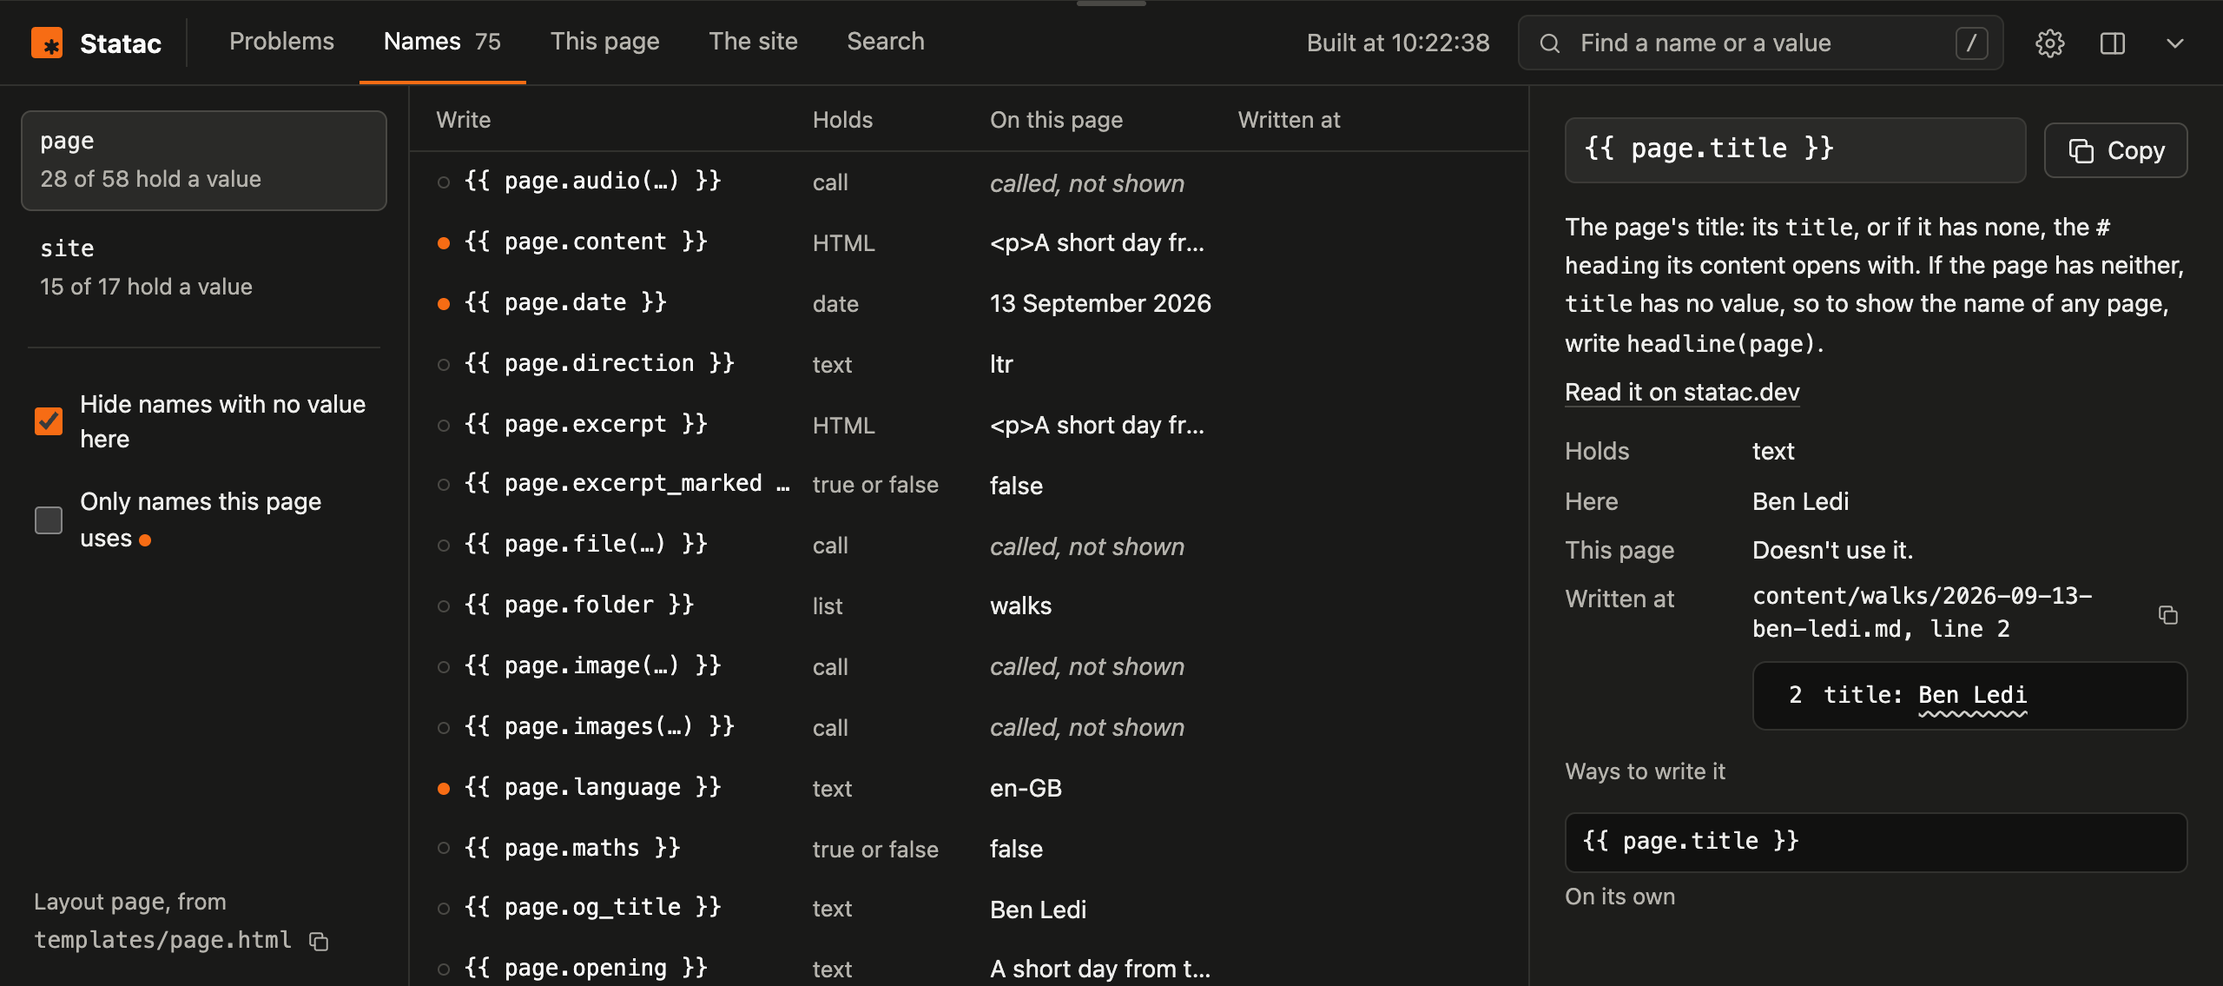
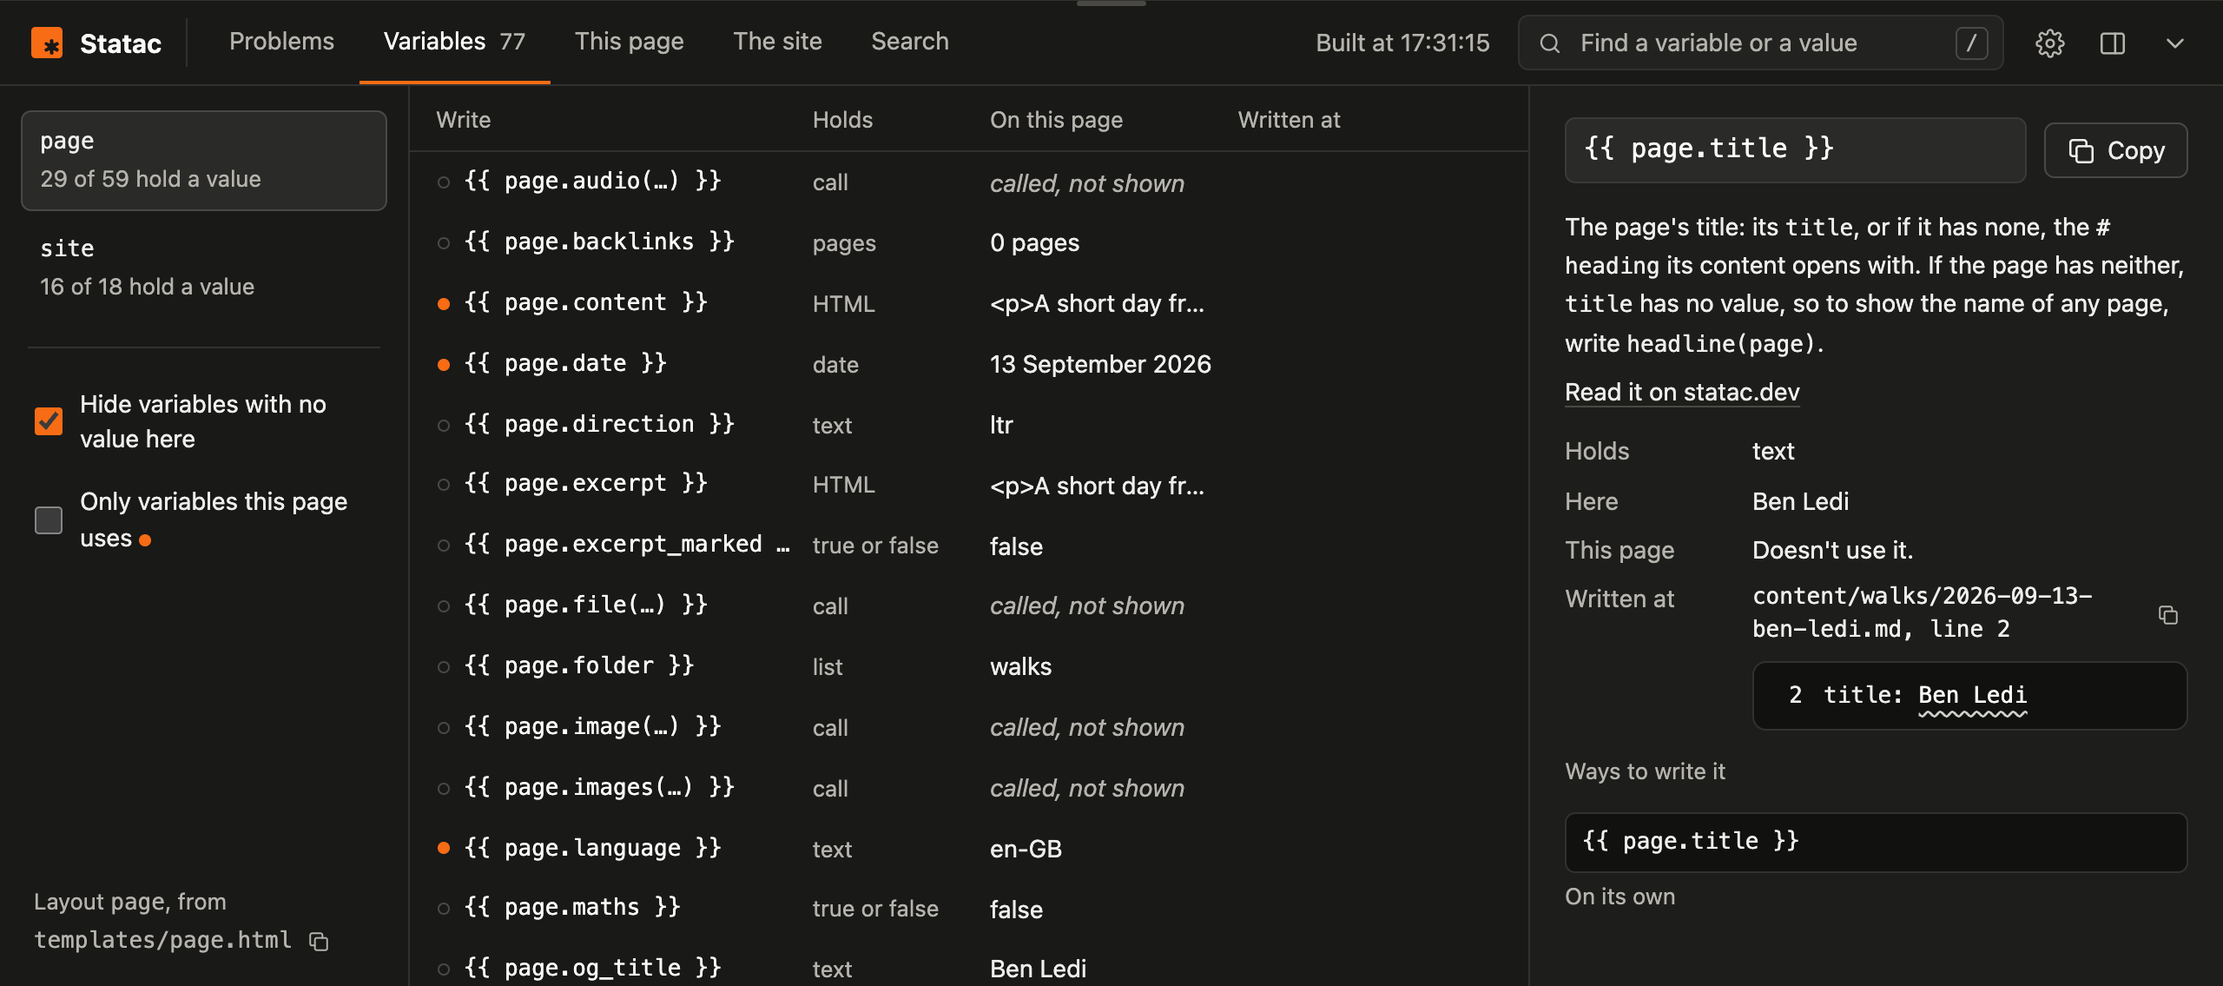
fix: use the searched-for words in messages, the debug panel and the generated pages

diff --git a/src/wording.rs b/src/wording.rs
@@ -1578,7 +1578,7 @@ fn format_suggestion(fault: &FormatFault) -> Option<String> {
                 let names: Vec<String> = (Look::ALL.iter())
                     .map(|look| look.name().to_owned())
                     .collect();
-                format!(", or name a look: {}", quoted_either(&names))
+                format!(", or use a named format: {}", quoted_either(&names))
             }
             false => String::new(),
         };
@@ -1663,9 +1663,9 @@ fn takes_fault(fault: &TakesFault) -> String {
     match fault {
         TakesFault::Unclosed => "the `takes` line has no `#}`".into(),
         TakesFault::NamesNothing => "the `takes` line names nothing".into(),
-        TakesFault::Missing => "a name is missing from the `takes` line".into(),
-        TakesFault::NotAlone(name) => format!("`{name}` must be the only name on its line"),
-        TakesFault::NotAName(piece) => format!("`{piece}` isn't a name a snippet can read"),
+        TakesFault::Missing => "a variable is missing from the `takes` line".into(),
+        TakesFault::NotAlone(name) => format!("`{name}` must be the only variable on its line"),
+        TakesFault::NotAName(piece) => format!("`{piece}` isn't a variable a snippet can read"),
         TakesFault::Twice(name) => format!("`{name}` is named twice"),
         TakesFault::TooMany => "the `takes` line names more than 2".into(),
         TakesFault::NeverRead(name) => format!("the snippet never reads `{name}`"),
@@ -2103,6 +2103,7 @@ fn word_name(word: Word) -> &'static str {
         Word::AddressPiece => "placeholder",
         Word::File => "file",
         Word::TimeZone => "time zone",
+        Word::Variable => "variable",
         Word::Name => "name",
         Word::Filter => "filter",
         Word::Test => "test",
@@ -4509,7 +4510,7 @@ pub(crate) fn hover_holds(written: &str, holds: Holds) -> Option<String> {
 
 /// What an editor's hover says a name is where what it holds isn't known.
 pub(crate) fn hover_name(written: &str) -> String {
-    format!("`{written}`, a name")
+    format!("`{written}`, a variable")
 }
 
 /// What an editor's hover says a function is, as `css` or `page.image`.
@@ -5147,7 +5148,7 @@ pub(crate) fn panel_list(word: Word, name: &str) -> String {
 pub(crate) const PANEL_READ_PAGES: &str = "Which pages there are";
 pub(crate) const PANEL_READ_LISTS: &str = "Which lists there are";
 pub(crate) const PANEL_READ_ORDER: &str = "The order of the pages in their lists";
-pub(crate) const PANEL_READ_TRANSLATIONS: &str = "Which pages are translations of which";
+pub(crate) const PANEL_READ_TRANSLATIONS: &str = "Which translated pages each page has";
 pub(crate) const PANEL_READ_BACKLINKS: &str = "Which pages link to which";
 pub(crate) const PANEL_READ_FILES: &str = "Which images and other files the site has";
 pub(crate) const PANEL_READ_MENTIONS: &str = "The webmentions in `fetched/mentions/`";
@@ -5278,7 +5279,7 @@ pub(crate) fn panel_words() -> Vec<(&'static str, PanelWord)> {
         ("copyPlaceLabel", said("Copy {place}")),
         ("holdsHere", said("On this page it holds {value}.")),
         ("holdsNothing", said("On this page it holds no value.")),
-        ("showInNames", said("Show in Names")),
+        ("showInNames", said("Show in Variables")),
         ("explain", said("What it means, and how to fix it")),
         ("allProblems", said("All problems")),
         ("builtThis", said("While building this page")),
@@ -5292,7 +5293,7 @@ pub(crate) fn panel_words() -> Vec<(&'static str, PanelWord)> {
         ("quietened", said("Quietened in `statac.yaml`")),
         // The drawer, and its tabs.
         ("problems", said("Problems")),
-        ("names", said("Names")),
+        ("names", said("Variables")),
         ("page", said(PANEL_PAGE)),
         ("site", said(PANEL_SITE)),
         ("parts", said("What the debug panel shows")),
@@ -5301,8 +5302,8 @@ pub(crate) fn panel_words() -> Vec<(&'static str, PanelWord)> {
             said("Stopped at {time}; the page is from the build at {built}"),
         ),
         ("statusStoppedFirst", said("Stopped at {time}")),
-        ("find", said("Find a name")),
-        ("findHow", said("Find a name or a value")),
+        ("find", said("Find a variable")),
+        ("findHow", said("Find a variable or a value")),
         ("settings", said("Settings")),
         ("dockSide", said("Dock to the side")),
         ("dockBottom", said("Dock to the bottom")),
@@ -5330,11 +5331,11 @@ pub(crate) fn panel_words() -> Vec<(&'static str, PanelWord)> {
         ("fromExplain", said("From `statac explain {kind}`")),
         ("howToFix", said("How to fix it")),
         ("readOnline", said("Read it on statac.dev")),
-        // Names.
+        // Variables.
         ("held", said("{held} of {count} hold a value")),
         ("found", said("{n} found")),
-        ("hideEmpty", said("Hide names with no value here")),
-        ("onlyUsed", said("Only names this page uses")),
+        ("hideEmpty", said("Hide variables with no value here")),
+        ("onlyUsed", said("Only variables this page uses")),
         ("layoutFrom", said("Layout `{name}`, from `{file}`")),
         ("columnWrite", said(PANEL_COLUMNS[0])),
         ("columnHolds", said(PANEL_COLUMNS[1])),
@@ -5344,13 +5345,13 @@ pub(crate) fn panel_words() -> Vec<(&'static str, PanelWord)> {
         (
             "noMatch",
             said(
-                "No name here matches \u{201c}{query}\u{201d}. Write a name the way a \
+                "No variable here matches \u{201c}{query}\u{201d}. Write a variable the way a \
                  template does, such as `page.title`.",
             ),
         ),
-        ("noneLeft", said("The filters leave no name here.")),
+        ("noneLeft", said("The filters leave no variable here.")),
         ("noPage", said("No page is published at this URL.")),
-        ("chosen", said("The chosen name")),
+        ("chosen", said("The chosen variable")),
         ("copy", said("Copy")),
         ("copied", said("Copied")),
         ("here", said("Here")),
@@ -9412,8 +9413,10 @@ mod tests {
                 None,
             ),
             (
-                Kind::LoopInForIf { word: Word::Name },
-                "Unknown name: `loop`",
+                Kind::LoopInForIf {
+                    word: Word::Variable,
+                },
+                "Unknown variable: `loop`",
                 Some("`loop` has a value only inside the loop: test it with an `{% if %}` there."),
             ),
             (
@@ -9425,11 +9428,11 @@ mod tests {
             ),
             (
                 Kind::UnknownWord {
-                    word: Word::Name,
+                    word: Word::Variable,
                     written: "loop".into(),
                     nearest: None,
                 },
-                "Unknown name: `loop`",
+                "Unknown variable: `loop`",
                 None,
             ),
             (
@@ -9950,7 +9953,7 @@ mod tests {
                 "Unusable date format: nothing in `lnog` is in `Wednesday 31 December 2025, 3.04pm`",
                 Some(
                     "Write `Wednesday 31 December 2025, 3.04pm` the way dates should look, such as \
-                     `31/12/2025` or `31 December 2025`, or name a look: `long`, `short`, `day` \
+                     `31/12/2025` or `31 December 2025`, or use a named format: `long`, `short`, `day` \
                      or `stamp`.",
                 ),
             ),

diff --git a/examples/reference_pages.rs b/examples/reference_pages.rs
@@ -125,9 +125,6 @@ fn page(group: Group) -> String {
     out
 }
 
-/// "names" as the docs write it where a page first uses the word.
-pub const GLOSS: &str = "names (variables)";
-
 /// The first sentence of `text`.
 fn opening(text: &str) -> &str {
     text.find(". ").map_or(text, |at| &text[..=at])
@@ -137,7 +134,7 @@ fn index() -> String {
     let mut out = front_matter(
         "Reference",
         Some(
-            "Every setting, front matter field, template name, filter and function \
+            "Every setting, front matter field, template variable, filter and function \
              Statac has, each in a line or two.",
         ),
         Some("page"),
@@ -147,21 +144,14 @@ fn index() -> String {
         "\nEach of Statac's names has a line or two here. An editor shows the same \
          words when you point at the name, and the debug panel shows them beside it.\n",
     );
-    // Most groups' openings gloss "names": the list keeps the first gloss only.
-    let mut glossed = false;
     for (heading, groups) in SECTIONS {
         out.push_str(&format!("\n## {heading}\n\n"));
         for group in *groups {
-            let mut opening = opening(group.about()).to_owned();
-            if glossed {
-                opening = opening.replacen(GLOSS, "names", 1);
-            }
-            glossed |= opening.contains(GLOSS);
             out.push_str(&format!(
                 "- [{}](/reference/{}/): {}\n",
                 group.title(),
                 group.name(),
-                opening
+                opening(group.about())
             ));
         }
     }

diff --git a/src/lsp/hover/tests.rs b/src/lsp/hover/tests.rs
@@ -69,9 +69,9 @@ fn a_setting_says_what_it_does() {
         lines,
         [
             "`code_colours`, a setting",
-            "`true` marks each piece of code in the content with a class for what kind of \
-             piece it is, such as `hl-keyword`, for the site's own stylesheet to colour. The \
-             default is `false`, and Statac writes code exactly as typed.",
+            "`true` turns on syntax highlighting: Statac marks each token of code in the content \
+             with a class for its kind, such as `hl-keyword`, for the site's own stylesheet to \
+             colour. The default is `false`, and Statac writes code exactly as typed.",
         ]
     );
     assert_eq!(more.unwrap(), "https://statac.dev/code-colours/");
@@ -470,7 +470,7 @@ fn a_name_or_field_in_a_template_says_what_it_holds_and_what_it_is() {
         ),
         (
             "{{ site.da|ta }}",
-            "`site.data`, a name",
+            "`site.data`, a variable",
             "data",
             Some((Group::Site, "data")),
         ),

diff --git a/src/templates/tests.rs b/src/templates/tests.rs
@@ -1501,7 +1501,7 @@ fn a_name_nothing_has_is_told_when_the_template_is_read() {
         [
             (Word::Field, "page.titel".into(), Some("page.title".into())),
             (Word::Filter, "uper".into(), Some("upper".into())),
-            (Word::Name, "posts".into(), None),
+            (Word::Variable, "posts".into(), None),
             (Word::Snippet, "crad".into(), Some("card".into())),
         ]
     );
@@ -1511,7 +1511,7 @@ fn a_name_nothing_has_is_told_when_the_template_is_read() {
 /// reading it there is told when the template is read, at the `loop`.
 #[test]
 fn loop_in_a_fors_own_if_is_told_when_the_template_is_read() {
-    let name = "Unknown name: `loop`";
+    let name = "Unknown variable: `loop`";
     let in_if = Some("`loop` has a value only inside the loop: test it with an `{% if %}` there.");
     for (template, told) in [
         (

diff --git a/tests/reference_pages.rs b/tests/reference_pages.rs
@@ -89,21 +89,3 @@ fn each_name_has_a_heading_of_its_own_and_each_group_is_listed() {
     );
     assert_eq!(reference_pages::id("og_title"), "og_title");
 }
-
-#[test]
-fn names_are_glossed_once_a_page_where_first_used() {
-    for (name, text) in reference_pages::pages() {
-        let glosses = text.matches(reference_pages::GLOSS).count();
-        assert!(glosses <= 1, "{name} glosses names {glosses} times");
-    }
-    for &group in Group::ALL {
-        if let Some(at) = group.about().find("names") {
-            let first = &group.about()[at..];
-            assert!(first.starts_with(reference_pages::GLOSS), "{group:?}");
-        }
-    }
-    let index = reference_pages::pages()
-        .into_iter()
-        .find(|(name, _)| name == "index.md");
-    assert!(index.unwrap().1.contains(reference_pages::GLOSS));
-}

diff --git a/src/templates/check.rs b/src/templates/check.rs
@@ -887,7 +887,7 @@ impl<'a> Checker<'a> {
             .find(|&&(former, ours)| former == name && self.extra.iter().any(|(n, _)| *n == ours))
         {
             let kind = Kind::OtherSpelling {
-                word: Word::Name,
+                word: Word::Variable,
                 written: name.to_owned(),
                 ours: ours.to_owned(),
             };
@@ -896,7 +896,7 @@ impl<'a> Checker<'a> {
         }
         let visible = self.visible();
         let nearest = nearest(name, visible.iter().map(String::as_str)).map(str::to_owned);
-        let kind = self.unknown_word(Word::Name, name, nearest);
+        let kind = self.unknown_word(Word::Variable, name, nearest);
         self.tell(kind, span);
     }
 

diff --git a/src/lsp/tests.rs b/src/lsp/tests.rs
@@ -671,7 +671,7 @@ fn a_hover_says_what_the_word_is_in_markdown_where_the_editor_reads_it() {
             .expect("the hover");
         assert_eq!(answer.text(&["result", "contents", "kind"]), Some(kind));
         let value = answer.text(&["result", "contents", "value"]).unwrap();
-        let first = "`code_colours`, a setting\n\n`true` marks each piece of code";
+        let first = "`code_colours`, a setting\n\n`true` turns on syntax highlighting";
         assert!(value.starts_with(first), "{value}");
         assert!(value.ends_with(&format!(".\n\n{more}")), "{value}");
         let range = ["result", "range"];

diff --git a/src/problem.rs b/src/problem.rs
@@ -2464,7 +2464,9 @@ pub enum Word {
     AddressPiece,
     File,
     TimeZone,
-    /// A name a template reads, such as `posts`.
+    /// A variable a template reads, such as `posts`.
+    Variable,
+    /// A name a filter takes for a form it writes, such as `rss`.
     Name,
     Filter,
     Test,

diff --git a/README.md b/README.md
@@ -24,8 +24,8 @@ install beside it.
 ## It explains itself
 
 <p align="center">
-  <img src="https://git.statac.dev/statac/statac/raw/branch/main/.github/readme/debug-panel-light.png#gh-light-mode-only" alt="Statac's debug panel open at its Names tab over a page being served. A list shows each name a template can write, such as {{ page.title }}, {{ page.date }} and {{ page.language }}, with what it holds on this page. Beside it, {{ page.title }} is described, with its value on this page, Ben Ledi, and the file and line it was written at, content/walks/2026-09-13-ben-ledi.md, line 2." width="860">
-  <img src="https://git.statac.dev/statac/statac/raw/branch/main/.github/readme/debug-panel-dark.png#gh-dark-mode-only" alt="Statac's debug panel open at its Names tab over a page being served. A list shows each name a template can write, such as {{ page.title }}, {{ page.date }} and {{ page.language }}, with what it holds on this page. Beside it, {{ page.title }} is described, with its value on this page, Ben Ledi, and the file and line it was written at, content/walks/2026-09-13-ben-ledi.md, line 2." width="860">
+  <img src="https://git.statac.dev/statac/statac/raw/branch/main/.github/readme/debug-panel-light.png#gh-light-mode-only" alt="Statac's debug panel open at its Variables tab over a page being served. A list shows each variable a template can write, such as {{ page.title }}, {{ page.date }} and {{ page.language }}, with what it holds on this page. Beside it, {{ page.title }} is described, with its value on this page, Ben Ledi, and the file and line it was written at, content/walks/2026-09-13-ben-ledi.md, line 2." width="860">
+  <img src="https://git.statac.dev/statac/statac/raw/branch/main/.github/readme/debug-panel-dark.png#gh-dark-mode-only" alt="Statac's debug panel open at its Variables tab over a page being served. A list shows each variable a template can write, such as {{ page.title }}, {{ page.date }} and {{ page.language }}, with what it holds on this page. Beside it, {{ page.title }} is described, with its value on this page, Ben Ledi, and the file and line it was written at, content/walks/2026-09-13-ben-ledi.md, line 2." width="860">
 </p>
 
 When something in the site is wrong, Statac shows you the file, the line

diff --git a/explanations/unmatched-translation-key.md b/explanations/unmatched-translation-key.md
@@ -1,7 +1,7 @@
 # Unmatched translation key
 
 A page has a `translation_key` that no published page in another
-language has, so it isn't linked to any translation.
+language has, so it isn't linked to any translated page.
 
 ## What you'll see {#what-youll-see}
 
@@ -17,9 +17,9 @@ warning  Unmatched translation key: no page in another language has `abuot`
 ## Why Statac warns
 
 Statac builds the page with the key you wrote. A key is there to link a
-page to its translations, so a key that links nothing usually means one
+page to its translated pages, so a key that links nothing usually means one
 of two things. Either it is spelled differently on the page and on its
-translation, or the translation hasn't been written yet. Statac counts a
+translated page, or the translated page hasn't been written yet. Statac counts a
 draft or a scheduled post as having its key, and links the page to it
 once it is published.
 
@@ -28,9 +28,9 @@ links anything.
 
 ## How to fix it
 
-Write the same key on the page's translation in each other language.
+Write the same key on the translated page in each other language.
 If the message suggests a key from another language, check whether the
-two keys were meant to be the same. If the page has no translation,
+two keys were meant to be the same. If the page has no translated pages,
 remove the key.
 
 ## Example
@@ -41,7 +41,7 @@ remove the key.
 translation_key: about
 ```
 
-and its English translation, `content/en/about-us.md`, has:
+and its translated page in English, `content/en/about-us.md`, has:
 
 ```yaml
 translation_key: abuot

diff --git a/explanations/same-translation.md b/explanations/same-translation.md
@@ -1,6 +1,6 @@
 # Same translation
 
-Two pages in the same language would both be the translation of the same
+Two pages in the same language would both be the translated page of the same
 pages in the site's other languages. Either both have the same
 `translation_key`, or both are in the same place as a page in another
 language. For example, `content/en/about.md` and `content/en/about.html`
@@ -23,7 +23,7 @@ error  Same translation: two pages in `en` have `translation_key: about`
 
 ## Why Statac stops
 
-A page has one translation in each language. If there are two candidates
+A page has one translated page in each language. If there are two candidates
 in one language, Statac can't know which one to send a reader to when
 they switch language, and a guess would send them to the wrong page.
 
@@ -31,7 +31,7 @@ they switch language, and a guess would send them to the wrong page.
 
 If both have the same key, give each page its own key, or move the one in
 the wrong language to its own language's folder. If both are in the same
-place, rename one of them, or give the one that isn't the translation a
+place, rename one of them, or give the one that isn't the translated page a
 `translation_key` of its own. Statac then links it to other pages by its
 key only.
 
@@ -43,7 +43,7 @@ key only.
 translation_key: about
 ```
 
-Keep the key on the page that is the translation, and give the other
+Keep the key on the translated page, and give the other
 one its own:
 
 ```yaml

diff --git a/explanations/unknown-word.md b/explanations/unknown-word.md
@@ -4,10 +4,10 @@ Statac found a word it doesn't know in a place where it knows every word
 that can be written. That place is one of these: a setting under `tags.`
 or `series.`, a kind in a field declaration, a line in a language file,
 a time zone, a table in `data/` that `each:` refers to, a place on a card,
-a stamp in front matter such as `=tomorrow`, or a name in a template.
+a stamp in front matter such as `=tomorrow`, or a variable in a template.
 
-In a template, Statac knows every name that can be used: `page` and
-`site`, the fields of pages and settings, the names the template sets
+In a template, Statac knows everything that can be used: `page` and
+`site`, the fields of pages and settings, the variables the template sets
 itself, the filters and tests, the snippets in `snippets/`, and the site's
 tags and folders.
 
@@ -41,7 +41,7 @@ of the documentation.
 after it, write two digits for the hour, a colon, and two digits for the
 minute, such as `=monday 09:00`.
 
-**A name in a template.** Check the spelling against the field in the
+**A variable in a template.** Check the spelling against the field in the
 front matter, the setting in `statac.yaml`, or the file in `snippets/`.
 `loop` is set only inside a loop, between `{% for %}` and `{% endfor %}`.
 Statac reads a loop's own `if`, such as `{% for x in xs if loop.first %}`,
